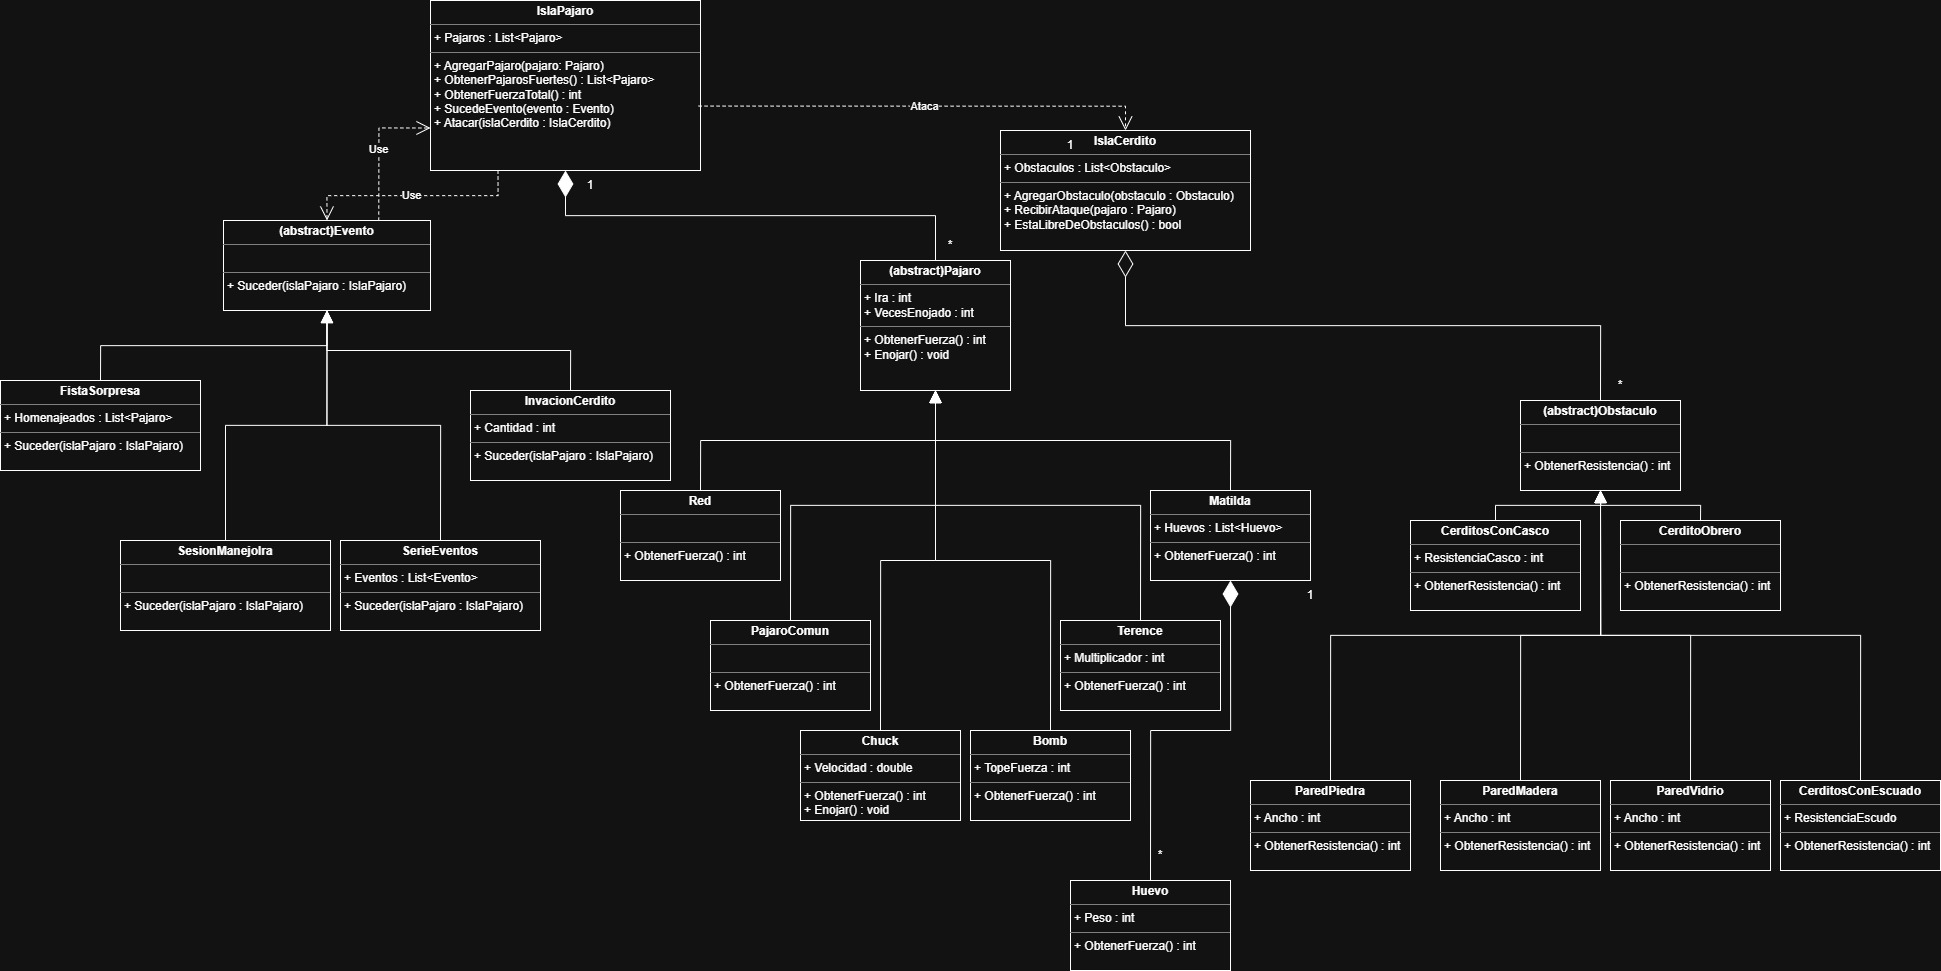
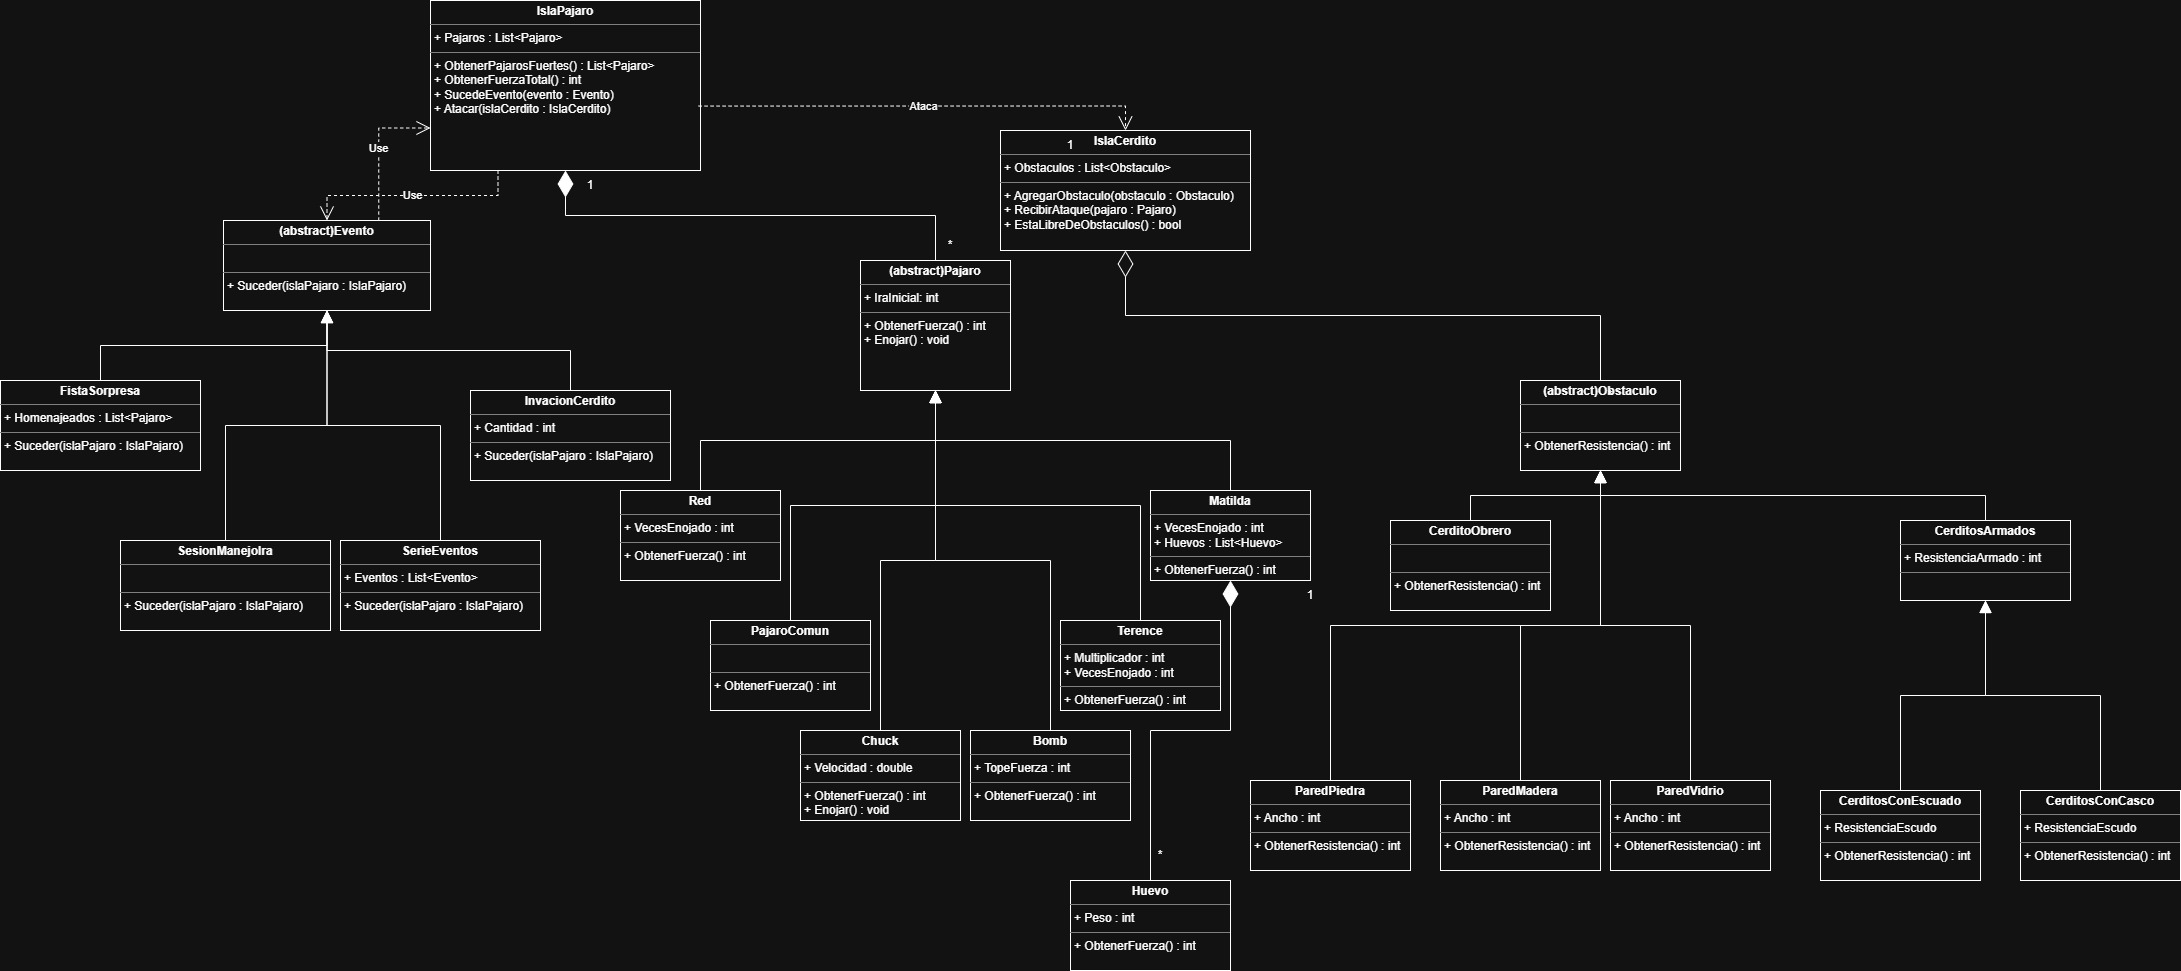
Modificaciones

diff --git a/AngryBirds.Biblioteca/obj/Debug/net9.0/AngryBirds.Biblioteca.AssemblyInfo.cs b/AngryBirds.Biblioteca/obj/Debug/net9.0/AngryBirds.Biblioteca.AssemblyInfo.cs
@@ -13,7 +13,7 @@ using System.Reflection;
 [assembly: System.Reflection.AssemblyCompanyAttribute("AngryBirds.Biblioteca")]
 [assembly: System.Reflection.AssemblyConfigurationAttribute("Debug")]
 [assembly: System.Reflection.AssemblyFileVersionAttribute("1.0.0.0")]
-[assembly: System.Reflection.AssemblyInformationalVersionAttribute("1.0.0+dd20bf80e55209968269b4dfbc190bbf10eb586a")]
+[assembly: System.Reflection.AssemblyInformationalVersionAttribute("1.0.0+3bc898aab40d60b6288093c05dd00b584767feca")]
 [assembly: System.Reflection.AssemblyProductAttribute("AngryBirds.Biblioteca")]
 [assembly: System.Reflection.AssemblyTitleAttribute("AngryBirds.Biblioteca")]
 [assembly: System.Reflection.AssemblyVersionAttribute("1.0.0.0")]

diff --git a/AngryBirds.Biblioteca/Models/Obstaculos/CerditoConCasco.cs b/AngryBirds.Biblioteca/Models/Obstaculos/CerditoConCasco.cs
@@ -1,15 +1,18 @@
 using AngryBirds.Biblioteca.Models.Abstract;
+using AngryBirds.Biblioteca.Models.Obstaculos;
 
 namespace AngryBirds.Biblioteca.Models;
 
-public class CerditoConCasco : Obstaculo
+public class CerditoConCasco : CerditoConArmas
 {
-    public int ResistenciaCasco { get; set; }
-
     public CerditoConCasco(int resistenciaCasco)
+        : base(resistenciaCasco)
     {
-        ResistenciaCasco = resistenciaCasco;
+        
     }
 
-    public override int ObtenerResistencia() => 10 * ResistenciaCasco;
+    public override int ObtenerResistencia()
+    {
+        return 10 * ResistenciaArma;
+    }
 }

diff --git a/AngryBirds.Biblioteca/Models/Obstaculos/CerditoConEscudo.cs b/AngryBirds.Biblioteca/Models/Obstaculos/CerditoConEscudo.cs
@@ -1,15 +1,16 @@
 using AngryBirds.Biblioteca.Models.Abstract;
+using AngryBirds.Biblioteca.Models.Obstaculos;
 
 namespace AngryBirds.Biblioteca.Models;
 
-public class CerditoConEscudo : Obstaculo
+public class CerditoConEscudo : CerditoConArmas
 {
-    public int ResistenciaEscudo { get; set; }
-
     public CerditoConEscudo(int resistenciaEscudo)
+        : base(resistenciaEscudo)
     {
-        ResistenciaEscudo = resistenciaEscudo;
     }
-
-    public override int ObtenerResistencia() => 10 * ResistenciaEscudo;
+    public override int ObtenerResistencia()
+    {
+        return 10 * ResistenciaArma;
+    }
 }

diff --git a/AngryBirds.Biblioteca/Models/Abstract/CerditosArmados.cs b/AngryBirds.Biblioteca/Models/Abstract/CerditosArmados.cs
@@ -1,0 +1,19 @@
+using System;
+using System.Collections.Generic;
+using System.Linq;
+using System.Threading.Tasks;
+using AngryBirds.Biblioteca.Models.Abstract;
+
+namespace AngryBirds.Biblioteca.Models.Obstaculos;
+public abstract class CerditoConArmas : Obstaculo
+{
+    public int ResistenciaArma { get; set; }
+
+    public CerditoConArmas(int resistenciaArma)
+    {
+        if (resistenciaArma <= 0)
+            throw new ArgumentException("La resistencia debe ser mayor a 0");
+
+        ResistenciaArma = resistenciaArma;
+    }
+}

diff --git a/AngryBirds.Biblioteca/Models/Abstract/Pajaro.cs b/AngryBirds.Biblioteca/Models/Abstract/Pajaro.cs
@@ -1,14 +1,13 @@
 
+
 namespace AngryBirds.Biblioteca.Models.Abstract;
 public abstract class Pajaro
 {
     public int IraInicial { get; set; }
-    protected int VecesEnojado { get; set; }
 
     protected Pajaro(int iraInicial)
     {
         IraInicial = iraInicial;
-        VecesEnojado = 0;
     }
 
     public abstract int ObtenerFuerza();
@@ -16,6 +15,6 @@ public abstract class Pajaro
     public virtual void Enojar()
     {
         IraInicial *= 2;
-        VecesEnojado++;
     }
+
 }

diff --git a/AngryBirds.Biblioteca/Models/Pajaros/Red.cs b/AngryBirds.Biblioteca/Models/Pajaros/Red.cs
@@ -4,6 +4,8 @@ namespace AngryBirds.Biblioteca.Models;
 
 public class Red : Pajaro
 {
+    public int VecesEnojado { get; set; } 
+
     public Red(int iraInicial) : base(iraInicial) { }
 
     public override int ObtenerFuerza() => IraInicial * 10 * VecesEnojado;

diff --git a/AngryBirds.Biblioteca/Models/Pajaros/Terence.cs b/AngryBirds.Biblioteca/Models/Pajaros/Terence.cs
@@ -4,6 +4,7 @@ namespace AngryBirds.Biblioteca.Models;
 
 public class Terence : Pajaro
 {
+    public int VecesEnojado { get; set; }
     public int Multiplicador { get; set; }
 
     public Terence(int iraInicial, int multiplicador) : base(iraInicial)

diff --git a/AngryBirds.Biblioteca/Models/Islas/IslaPajaro.cs b/AngryBirds.Biblioteca/Models/Islas/IslaPajaro.cs
@@ -11,10 +11,6 @@ public class IslaPajaro
         Pajaros = new List<Pajaro>();
     }
 
-    public void AgregarPajaro(Pajaro pajaro)
-    {
-        Pajaros.Add(pajaro);
-    }
 
     public List<Pajaro> ObtenerPajarosFuertes()
     {
